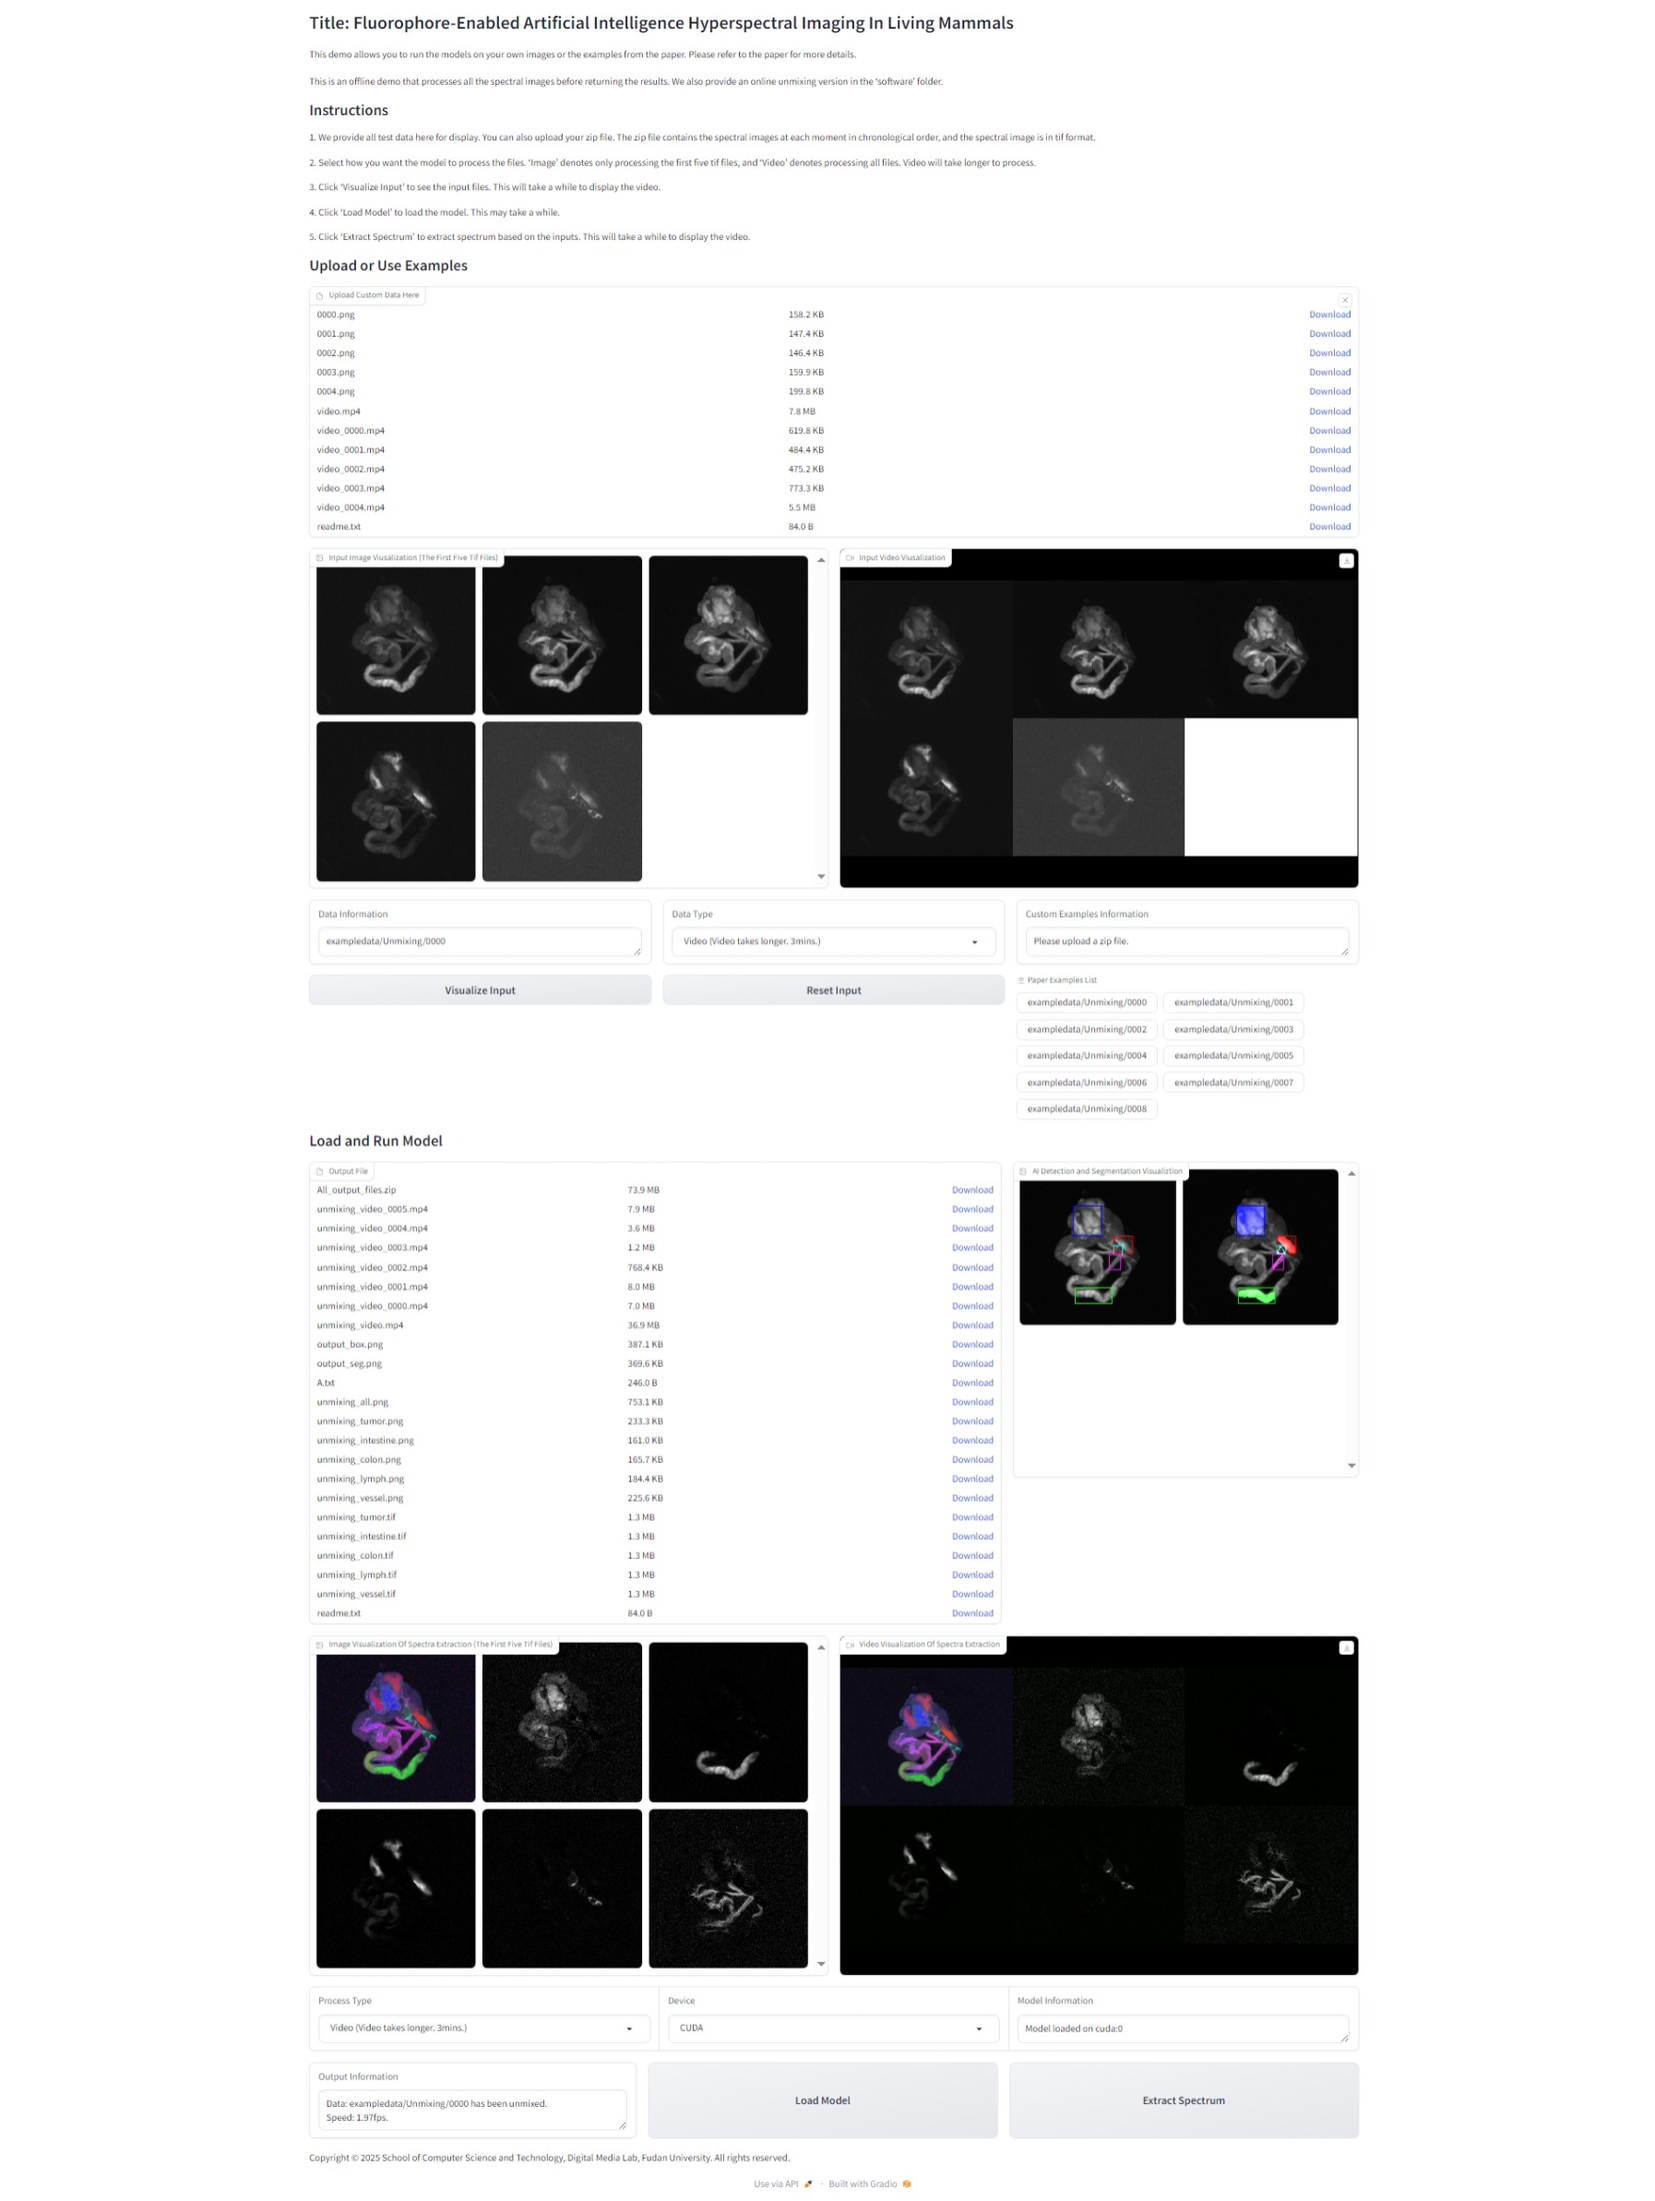
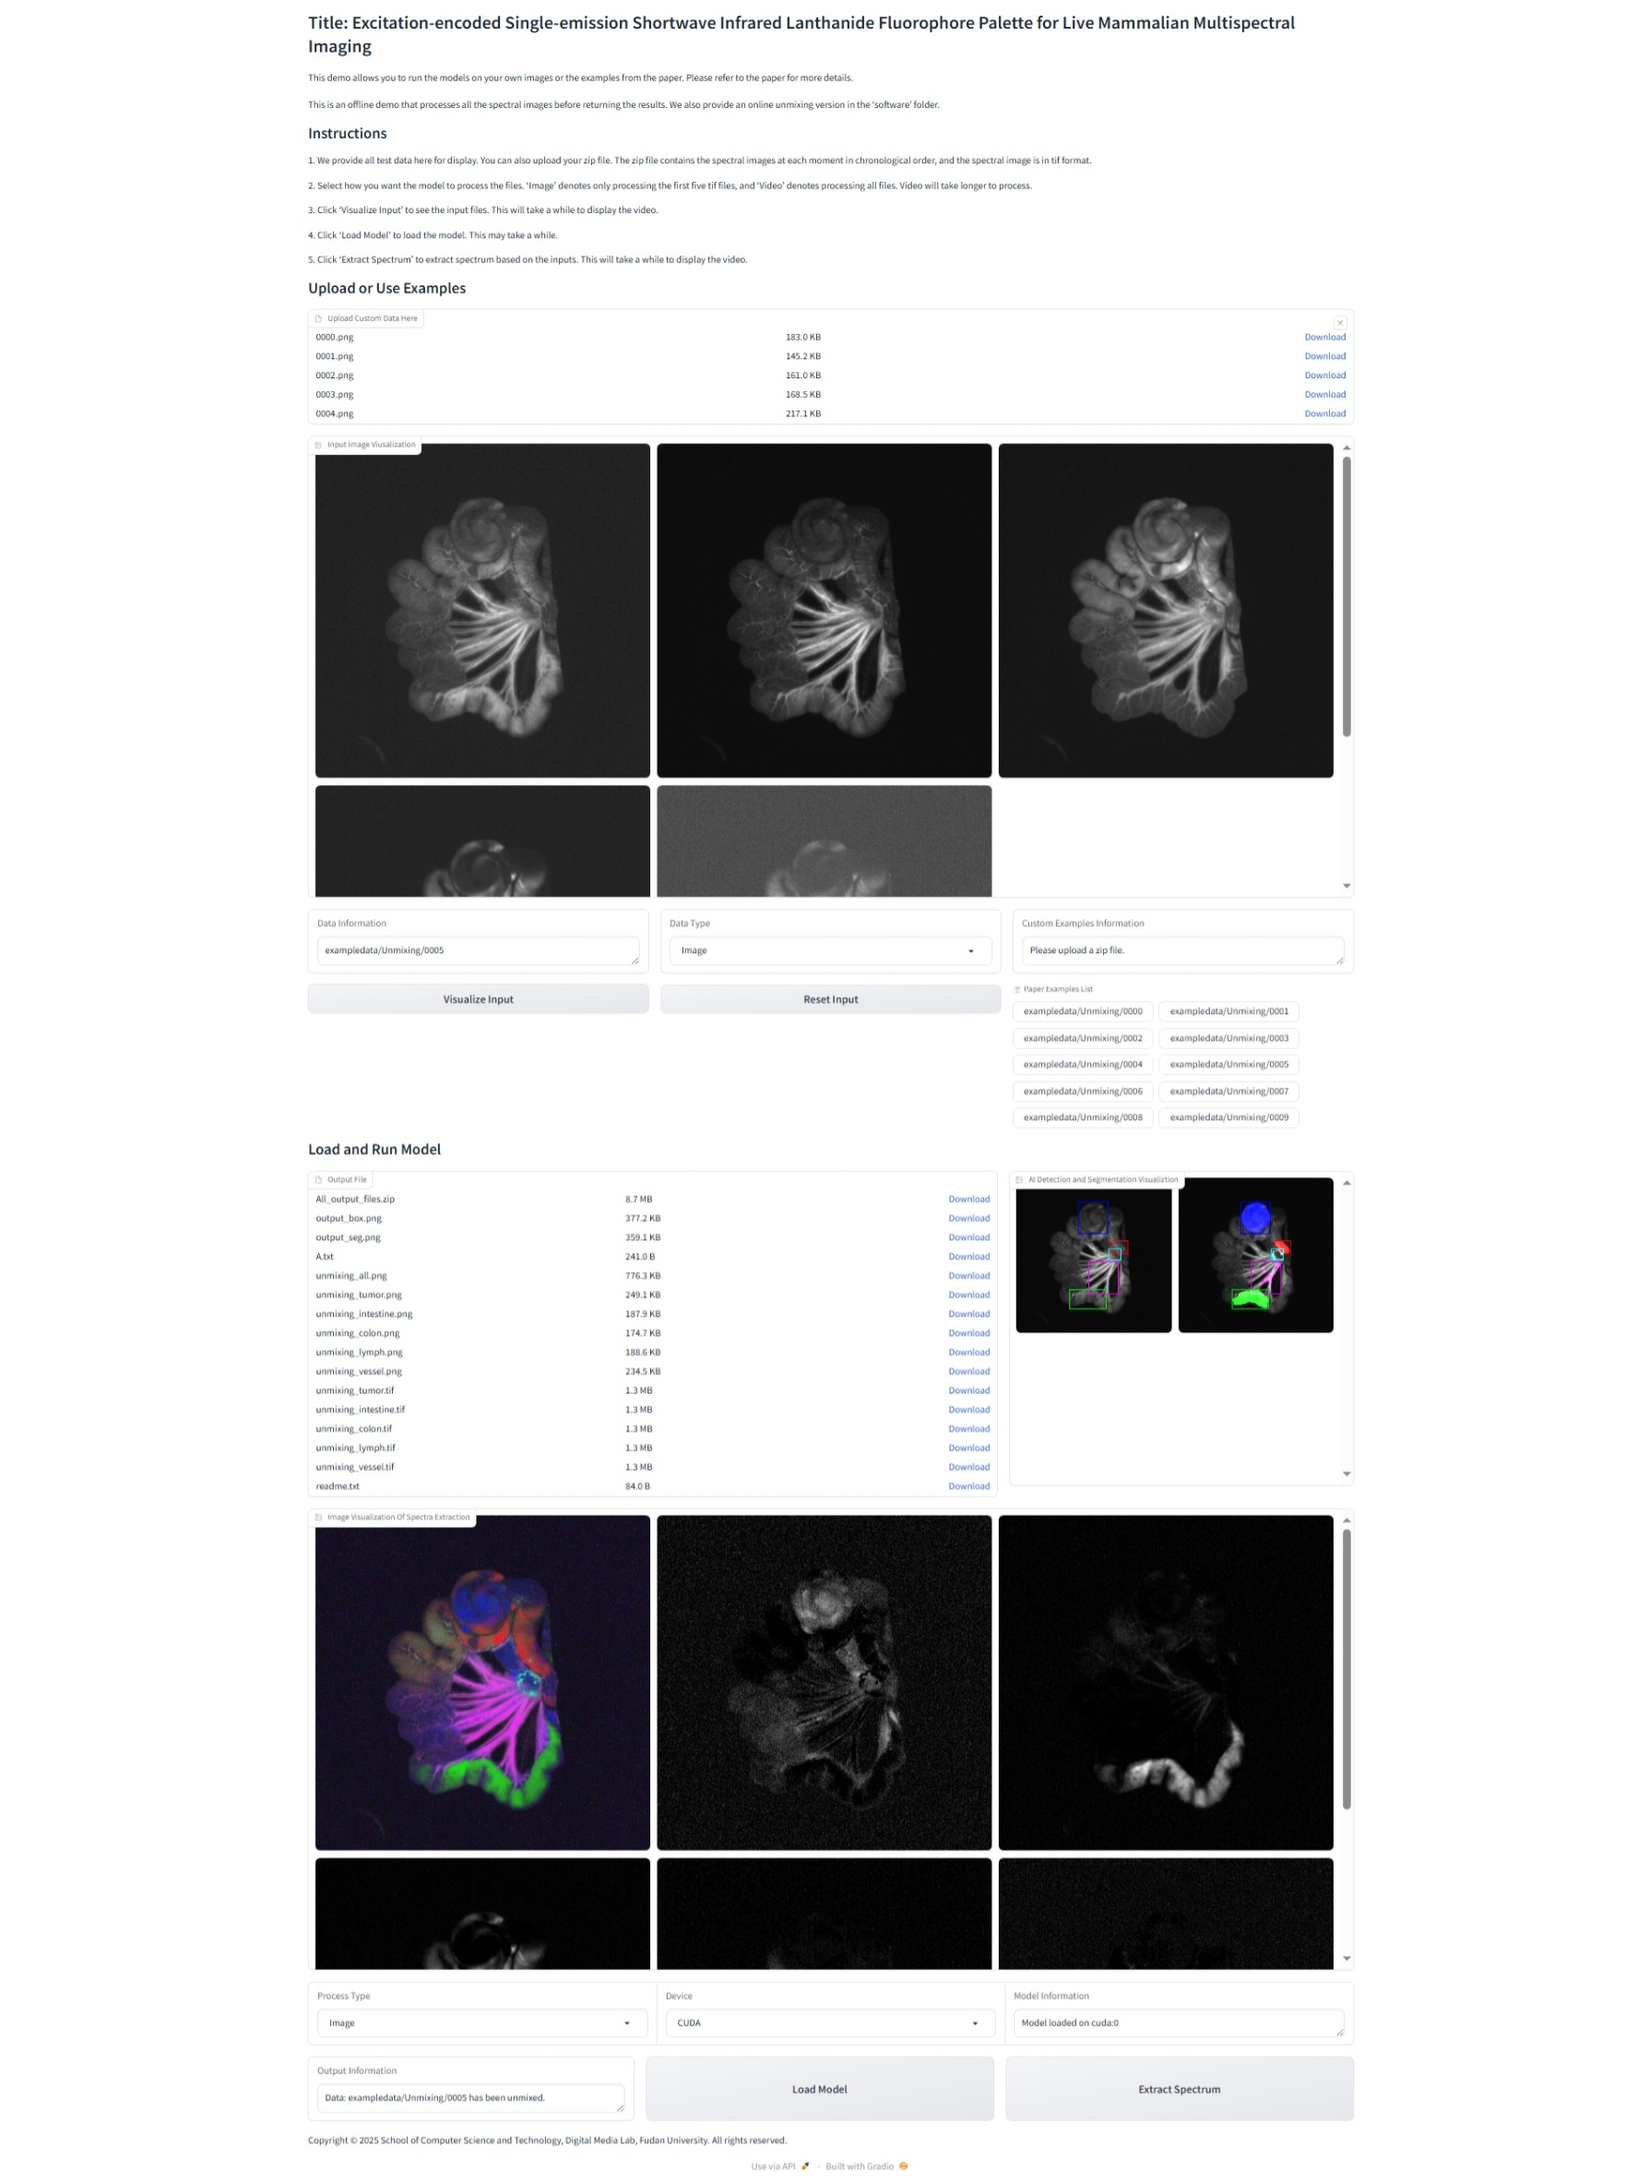
20250420

Changed region(s): [[0.1846, 0.0, 0.8305, 0.6171], [0.1846, 0.4937, 0.8305, 0.9873]]

diff --git a/app.py b/app.py
@@ -697,7 +697,7 @@ def update_dropdowns(selection):
 
 with gr.Blocks() as demo:
     gr.Markdown(
-        "# Title: Fluorophore-Enabled Artificial Intelligence Hyperspectral Imaging In Living Mammals")
+        "# Title: Excitation-encoded Single-emission Shortwave Infrared Lanthanide Fluorophore Palette for Live Mammalian Multispectral Imaging")
     # gr.Markdown(
     #     "# Title: AI-assisted high-capacity dynamic multiplexed imaging in vivo of monochromatic NIR-II-L fluorescence by excitation spectral resolving. ")
     gr.Markdown(
